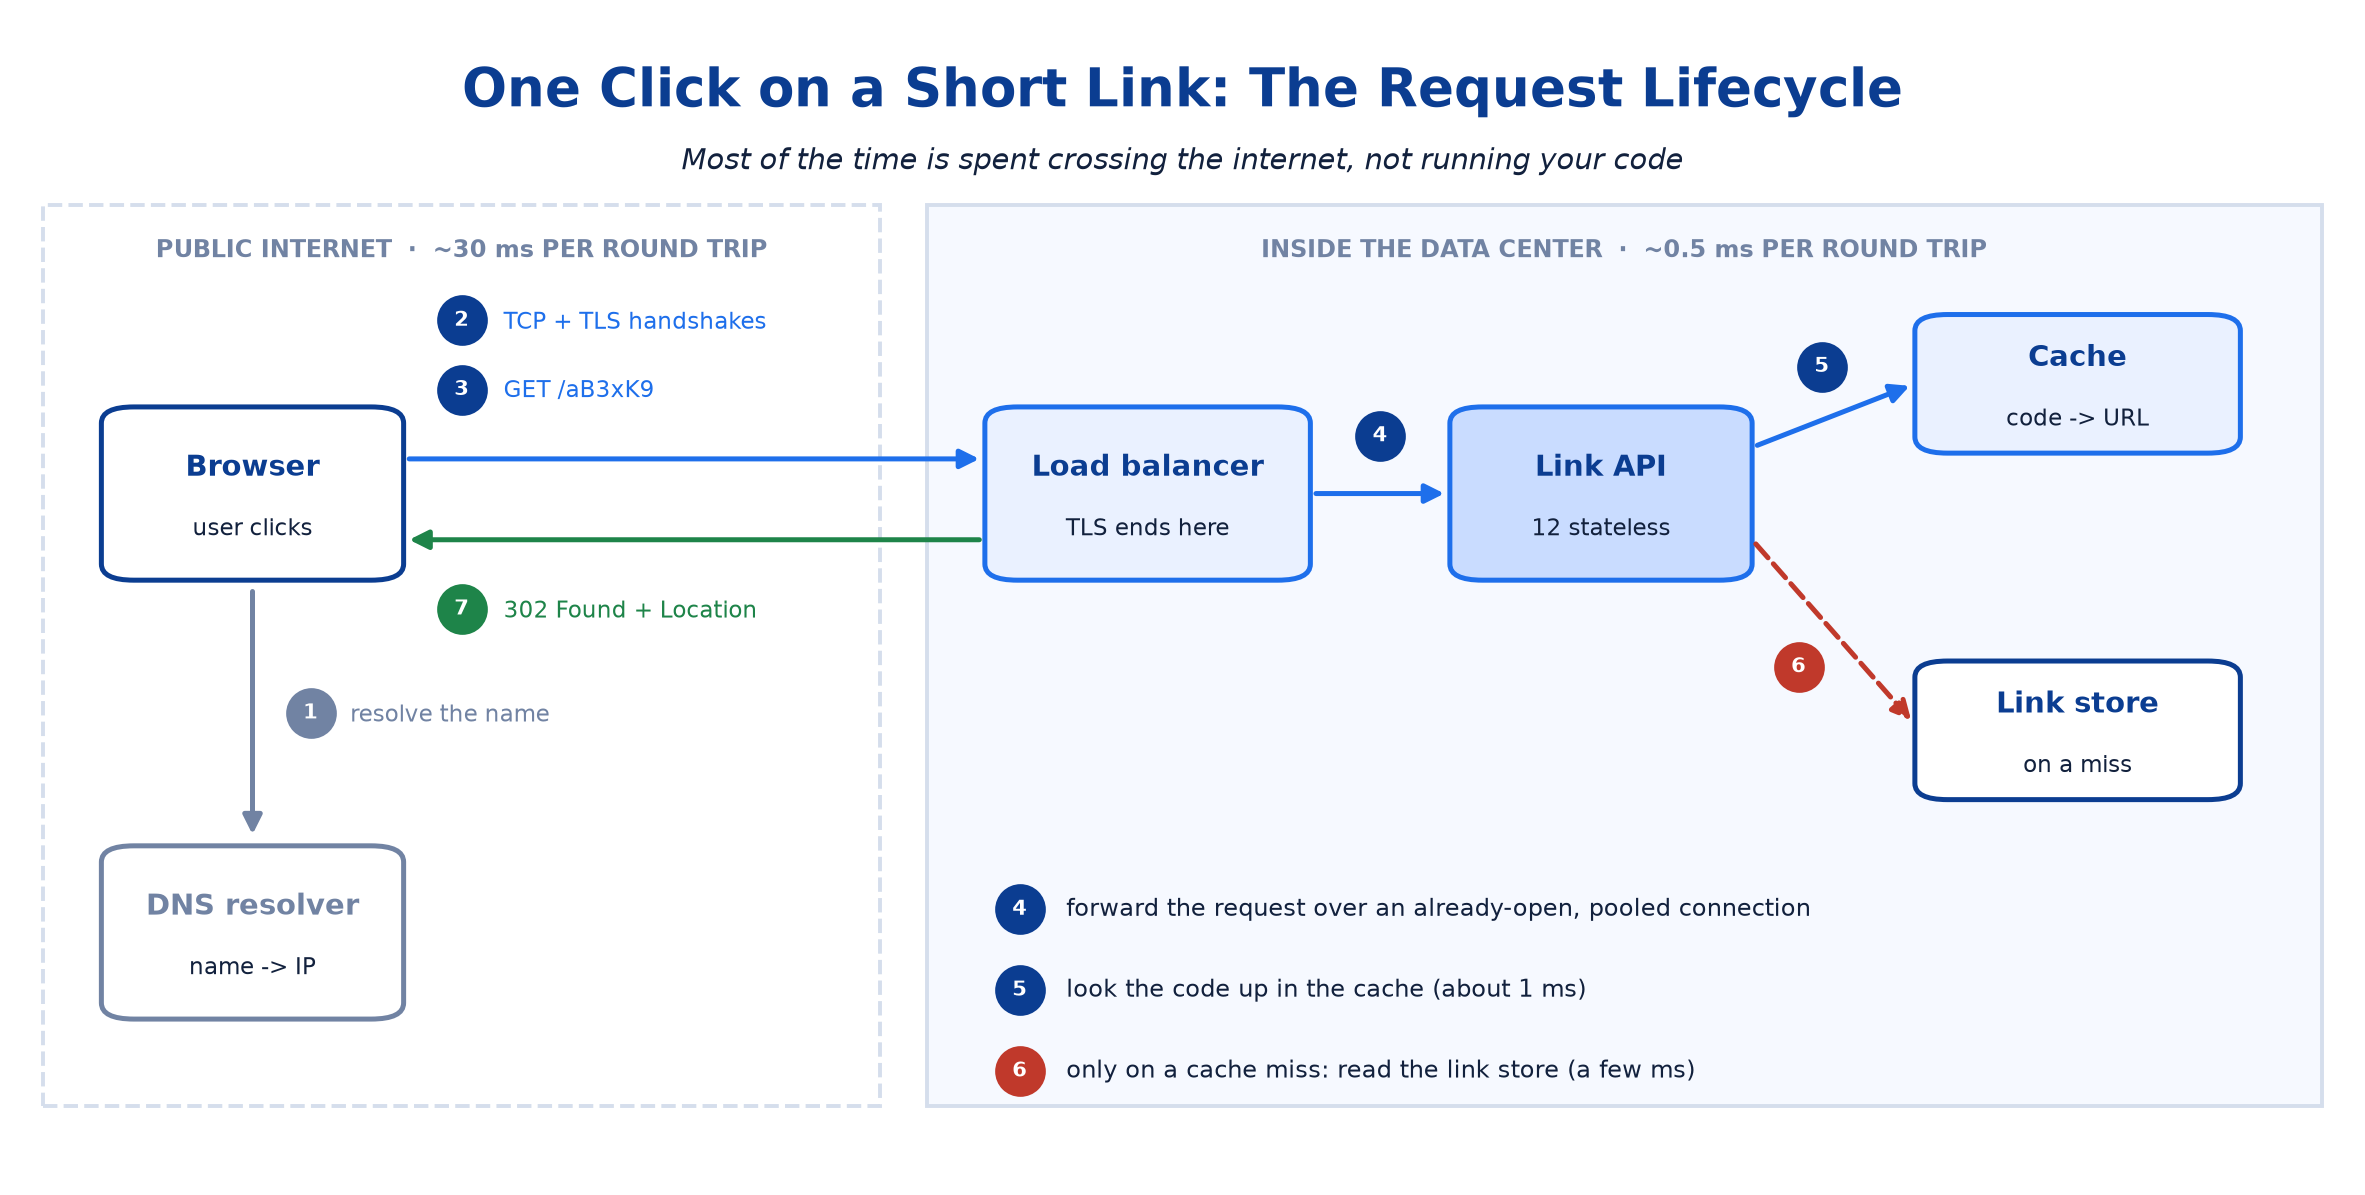
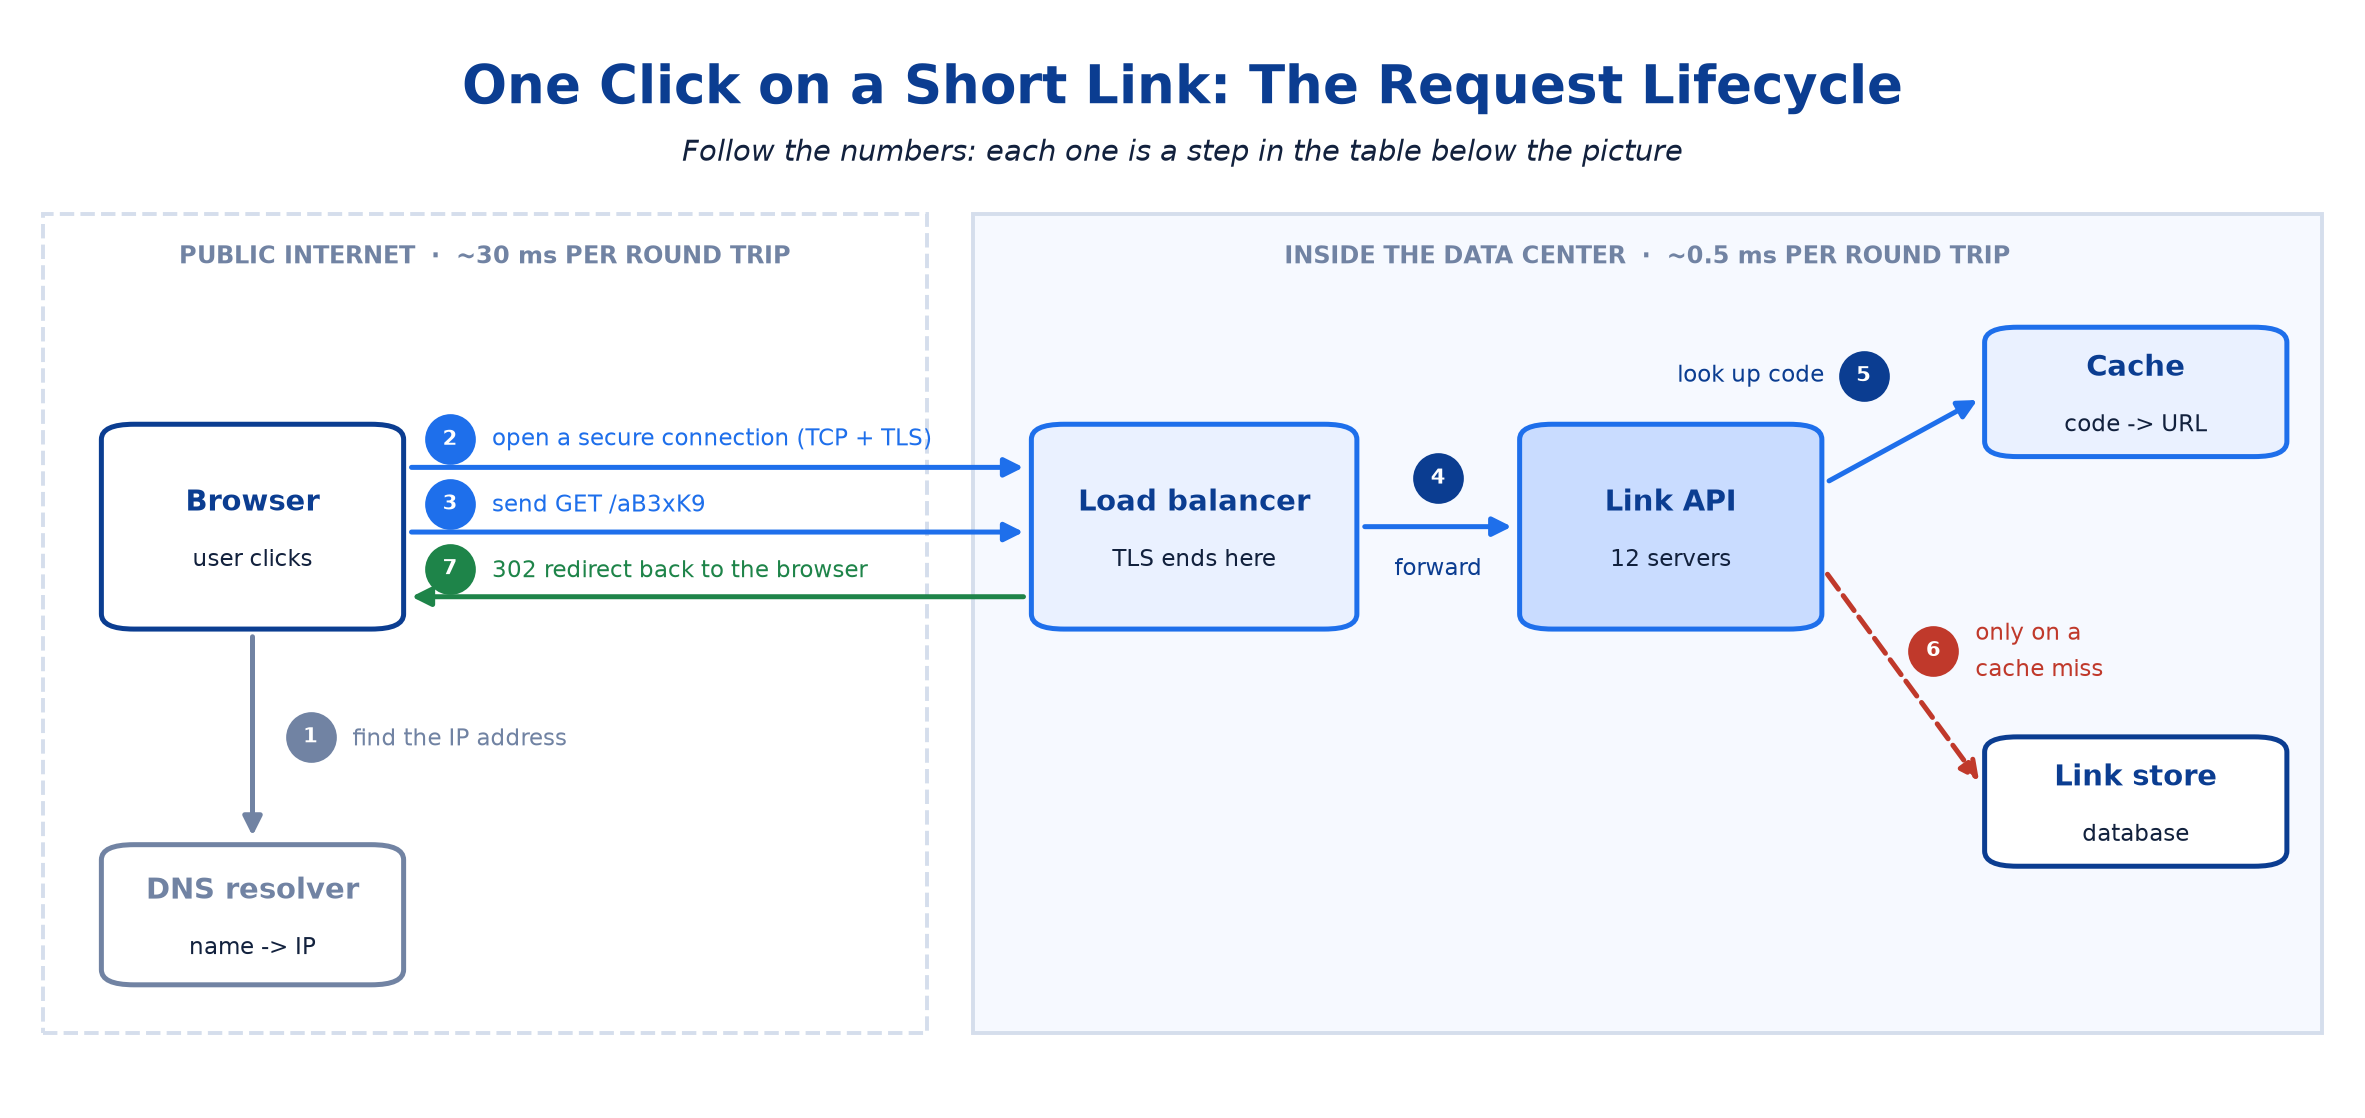
Basics 4: clearer request-lifecycle diagram and step table

diff --git a/system-design/_support/tools/plot_topic_04_figures.py b/system-design/_support/tools/plot_topic_04_figures.py
@@ -106,53 +106,52 @@ def network_layers() -> plt.Figure:
 
 
 def request_lifecycle() -> plt.Figure:
-    fig, ax = canvas(15, 7.5)
+    fig, ax = canvas(15, 7)
     heading(ax, "One Click on a Short Link: The Request Lifecycle",
-            "Most of the time is spent crossing the internet, not running your code")
-    ax.add_patch(Rectangle((1, 6), 36, 78, facecolor=WHITE, edgecolor=LINE,
+            "Follow the numbers: each one is a step in the table below the picture")
+    ax.add_patch(Rectangle((1, 6), 38, 76, facecolor=WHITE, edgecolor=LINE,
                            linestyle="--", linewidth=1.4))
-    ax.add_patch(Rectangle((39, 6), 60, 78, facecolor="#F6F9FF", edgecolor=LINE,
+    ax.add_patch(Rectangle((41, 6), 58, 76, facecolor="#F6F9FF", edgecolor=LINE,
                            linewidth=1.4))
-    caps(ax, 19, 80, "PUBLIC INTERNET  ·  ~30 ms PER ROUND TRIP")
-    caps(ax, 69, 80, "INSIDE THE DATA CENTER  ·  ~0.5 ms PER ROUND TRIP")
+    caps(ax, 20, 78, "PUBLIC INTERNET  ·  ~30 ms PER ROUND TRIP")
+    caps(ax, 70, 78, "INSIDE THE DATA CENTER  ·  ~0.5 ms PER ROUND TRIP")
 
-    box(ax, 4, 52, 12, 14, "Browser", "user clicks", face=WHITE, edge=NAVY)
-    box(ax, 4, 14, 12, 14, "DNS resolver", "name -> IP", face=WHITE, edge=GREY,
+    def step(x: float, y: float, number: str, text: str, color: str = NAVY) -> None:
+        """A numbered badge with its label to the right, in the arrow's colour."""
+        badge(ax, x, y, number, color=color)
+        note(ax, x + 1.8, y, text, color=color, size=8.4)
+
+    box(ax, 4, 44, 12, 18, "Browser", "user clicks", face=WHITE, edge=NAVY)
+    box(ax, 4, 11, 12, 12, "DNS resolver", "name -> IP", face=WHITE, edge=GREY,
         title_color=GREY)
-    box(ax, 42, 52, 13, 14, "Load balancer", "TLS ends here")
-    box(ax, 62, 52, 12, 14, "Link API", "12 stateless", face=MIST)
-    box(ax, 82, 63, 13, 11, "Cache", "code -> URL")
-    box(ax, 82, 33, 13, 11, "Link store", "on a miss", face=WHITE, edge=NAVY)
+    box(ax, 44, 44, 13, 18, "Load balancer", "TLS ends here")
+    box(ax, 65, 44, 12, 18, "Link API", "12 servers", face=MIST)
+    box(ax, 85, 60, 12, 11, "Cache", "code -> URL")
+    box(ax, 85, 22, 12, 11, "Link store", "database", face=WHITE, edge=NAVY)
 
-    arrow(ax, (10, 51), (10, 29), color=GREY)
-    badge(ax, 12.5, 40, "1", color=GREY)
-    note(ax, 14.2, 40, "resolve the name", color=GREY, size=8.2)
+    # 1: DNS lookup, before anything else.
+    arrow(ax, (10, 43.3), (10, 23.8), color=GREY)
+    step(12.5, 33.5, "1", "find the IP address", GREY)
 
-    arrow(ax, (16.5, 62), (41.5, 62))
-    badge(ax, 19, 74, "2")
-    note(ax, 20.8, 74, "TCP + TLS handshakes", color=BLUE, size=8.2)
-    badge(ax, 19, 68, "3")
-    note(ax, 20.8, 68, "GET /aB3xK9", color=BLUE, size=8.2)
-    arrow(ax, (41.5, 55), (16.5, 55), color=GREEN)
-    badge(ax, 19, 49, "7", color=GREEN)
-    note(ax, 20.8, 49, "302 Found + Location", color=GREEN, size=8.2)
+    # 2, 3, 7: three separate trips between the browser and the load balancer.
+    for y, number, text, color, outbound in (
+        (58.5, "2", "open a secure connection (TCP + TLS)", BLUE, True),
+        (52.5, "3", "send GET /aB3xK9", BLUE, True),
+        (46.5, "7", "302 redirect back to the browser", GREEN, False),
+    ):
+        start, end = ((16.6, y), (43.4, y)) if outbound else ((43.4, y), (16.6, y))
+        arrow(ax, start, end, color=color)
+        step(18.5, y + 2.6, number, text, color)
 
-    arrow(ax, (55.5, 59), (61.5, 59))
-    badge(ax, 58.5, 64, "4")
-    arrow(ax, (74.5, 63), (81.5, 68.5))
-    badge(ax, 77.5, 70, "5")
-    arrow(ax, (74.5, 55), (81.5, 39), color=RED, dashed=True)
-    badge(ax, 76.5, 44, "6", color=RED)
-
-    legend = [
-        ("4", "forward the request over an already-open, pooled connection", BLUE),
-        ("5", "look the code up in the cache (about 1 ms)", BLUE),
-        ("6", "only on a cache miss: read the link store (a few ms)", RED),
-    ]
-    for index, (label, text, color) in enumerate(legend):
-        y = 23 - index * 7
-        badge(ax, 43, y, label, color=NAVY if color == BLUE else color)
-        note(ax, 45, y, text, size=8.6)
+    # 4, 5, 6: inside the data center.
+    arrow(ax, (57.6, 53), (64.4, 53))
+    badge(ax, 61, 57.5, "4")
+    note(ax, 61, 49.3, "forward", color=NAVY, size=8.4, ha="center")
+    arrow(ax, (77.6, 57), (84.4, 65))
+    badge(ax, 79.3, 67, "5")
+    note(ax, 77.6, 67, "look up code", color=NAVY, size=8.4, ha="right")
+    arrow(ax, (77.6, 49), (84.4, 29), color=RED, dashed=True)
+    step(82.3, 41.5, "6", "only on a\ncache miss", RED)
     return fig
 
 

diff --git a/system-design/basics/04_Networking_And_Request_Lifecycle.md b/system-design/basics/04_Networking_And_Request_Lifecycle.md
@@ -33,19 +33,19 @@ You do not need to memorize these. Come back to this table whenever a term feels
 
 ![The request lifecycle for one click on a short link](assets/topic-04/request_lifecycle.png)
 
-[Basics 1](01_Interview_Framework_And_Capacity_Estimation.md) designed the URL shortener: a load balancer, a dozen stateless Link API servers, a cache, and a link store. This page follows **one click on one short link** through those boxes, and asks what happens on the wire at every step, how long each step takes, and what can go wrong.
+[Basics 1](01_Interview_Framework_And_Capacity_Estimation.md) designed the URL shortener: a load balancer, a dozen stateless Link API servers, a cache, and a link store. This page follows **one click on one short link** through those boxes, and asks what happens on the wire at every step, how long each step takes, and what can go wrong. The numbers in the table match the numbers in the picture.
 
-| Step | What happens | Where the time goes |
-|---|---|---|
-| 1. Resolve the name | The browser asks DNS for the IP address of `go.example.com`. | Zero if cached; otherwise one or more round trips to DNS servers. |
-| 2. Connect | The browser opens a TCP connection, then runs a TLS handshake with the load balancer. | Two round trips across the internet. |
-| 3. Send the request | The browser sends `GET /aB3xK9`. | One more round trip, shared with the response. |
-| 4. Forward | The load balancer forwards the request to one Link API server, over a connection that is already open. | Well under a millisecond inside the data center. |
-| 5. Look up | The Link API reads the code from the cache. | About 1 ms. |
-| 6. Fall back | Only on a cache miss, it reads the link store. | A few milliseconds. |
-| 7. Respond | The API returns `302 Found` with a `Location` header, and the browser goes to the long URL. | The return half of the round trip from step 3. |
+| Step | What happens |
+|---|---|
+| **1. Find the server's address (DNS)** | The browser only knows the name `go.example.com`, but the network needs a numeric IP address. It asks a DNS resolver, which answers with an address such as `203.0.113.10`. The browser and the operating system remember the answer, so later clicks usually skip this step. |
+| **2. Open a secure connection (TCP + TLS)** | The browser opens a TCP connection to the load balancer, then runs a TLS handshake to agree on encryption and check the site's certificate. This is only setup: nothing about the short link has been sent yet. |
+| **3. Send the request** | Over that connection, the browser sends `GET /aB3xK9`, which asks: "where does this short code point?" |
+| **4. Forward to a server** | The load balancer decrypts the request (TLS ends here), picks one of the Link API servers, and passes the request along over a connection it already has open to that server. |
+| **5. Look up the code in the cache** | The Link API server asks the cache for the long URL stored under `aB3xK9`. Popular links are almost always found here. |
+| **6. Read the link store (only on a cache miss)** | If the cache does not have the code, the server reads it from the link store, the permanent database, and saves it in the cache for the next click. |
+| **7. Send the redirect back** | The server answers `302 Found`, with the long URL in the `Location` header. The load balancer passes the answer back to the browser, which then opens the long URL. |
 
-Look at the right-hand column. Steps 1 to 3 and 7 cross the public internet, where every round trip costs tens of milliseconds. Steps 4 to 6 happen inside the data center, where a round trip costs about half a millisecond. **For a simple request, the network usually costs far more than your code.** That single fact drives most of this page.
+Steps 1, 2, 3, and 7 cross the public internet, where every round trip costs tens of milliseconds. Steps 4 to 6 stay inside the data center, where a round trip costs about half a millisecond. **For a simple request, the network usually costs far more than your code.** That single fact drives most of this page.
 
 !!! tip "The request lifecycle in one sentence"
     Count the round trips on the path, find the ones that cross long distances, and then remove them (by reusing connections), shorten them (by answering closer to the user), or bound them (with timeouts).
